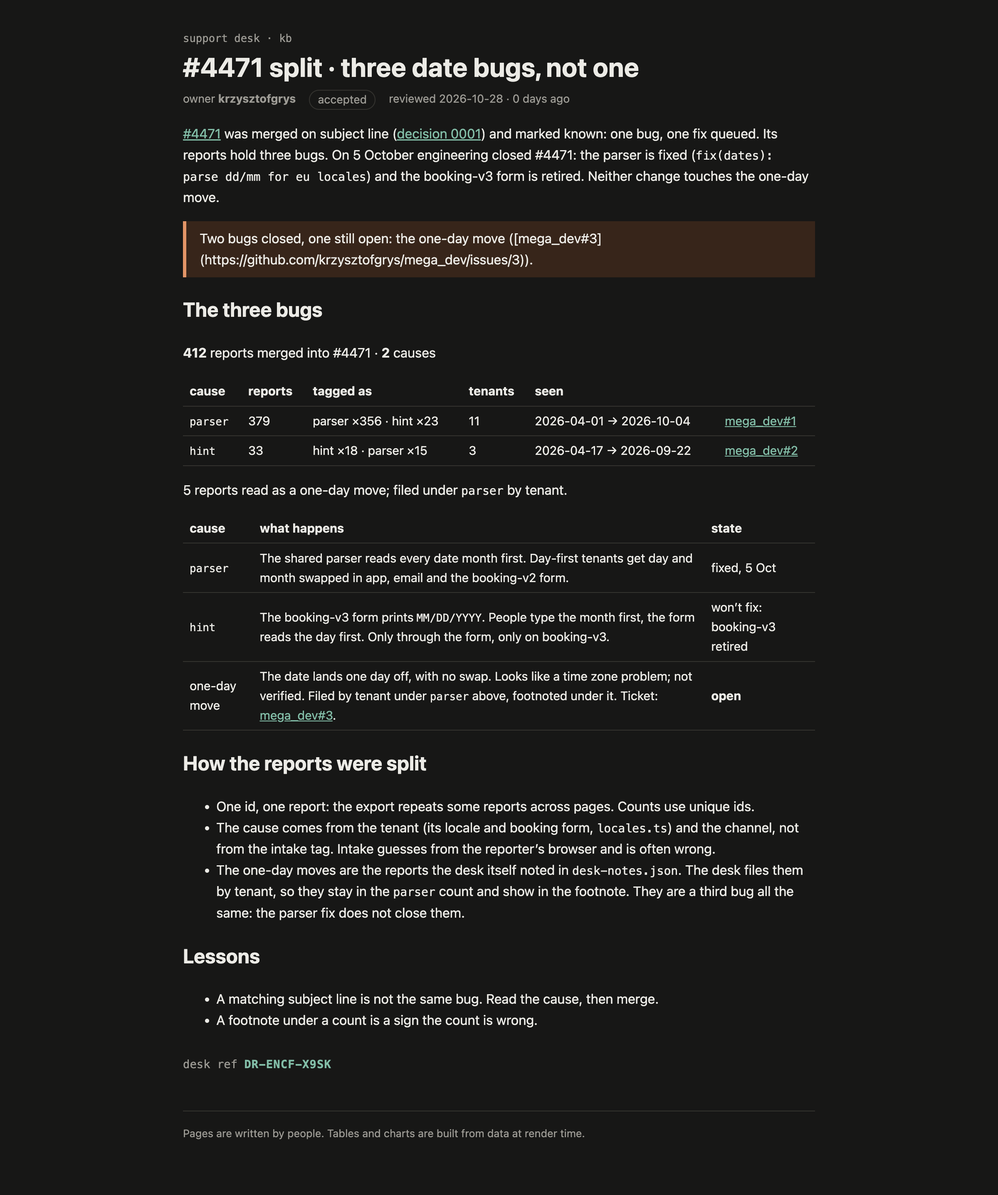
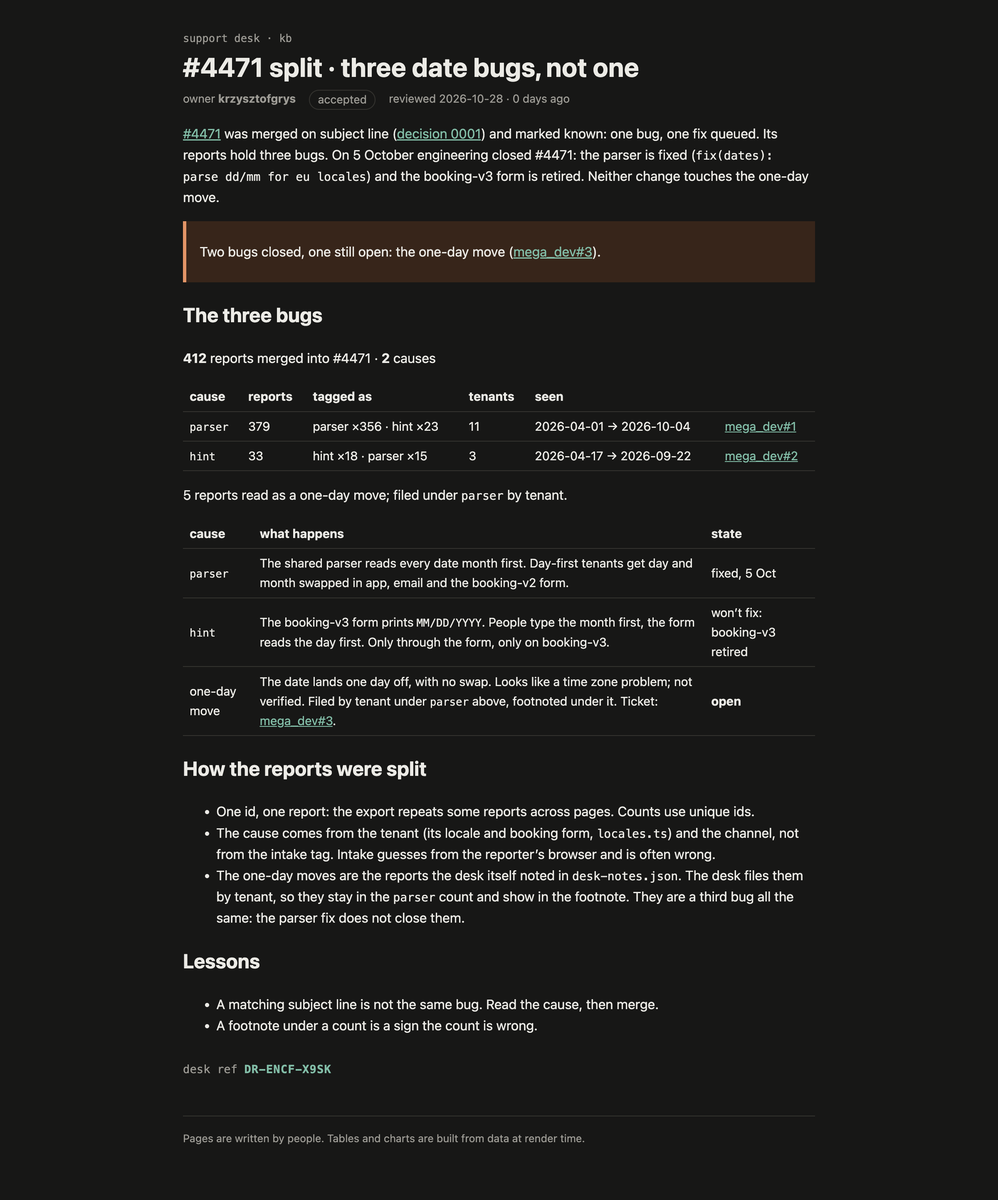
S01E03: render callout link

diff --git a/s01e03/kb/support-kb/build/kb/incidents/4471-split.html b/s01e03/kb/support-kb/build/kb/incidents/4471-split.html
@@ -9,11 +9,11 @@
 		<link href="../../_app/immutable/chunks/B2Ul7l_u.js" rel="modulepreload">
 		<link href="../../_app/immutable/chunks/BCPXOG7W.js" rel="modulepreload">
 		<link href="../../_app/immutable/chunks/Dh1V97Jm.js" rel="modulepreload">
-		<link href="../../_app/immutable/entry/app.BX17gbY5.js" rel="modulepreload">
+		<link href="../../_app/immutable/entry/app.xp6KYnsk.js" rel="modulepreload">
 		<link href="../../_app/immutable/nodes/0.C9KfiiPz.js" rel="modulepreload">
 		<link href="../../_app/immutable/chunks/DK3Fl9T5.js" rel="modulepreload">
-		<link href="../../_app/immutable/nodes/5.D7X5JXGS.js" rel="modulepreload">
-		<link href="../../_app/immutable/chunks/9JgcMUlY.js" rel="modulepreload">
+		<link href="../../_app/immutable/nodes/5.JJr5SkcL.js" rel="modulepreload">
+		<link href="../../_app/immutable/chunks/OjT2AAIC.js" rel="modulepreload">
 		<link href="../../_app/immutable/chunks/BTPwLomz.js" rel="modulepreload">
 		<link href="../../_app/immutable/chunks/DS6T-nj8.js" rel="modulepreload">
 		<link href="../../_app/immutable/chunks/BIy4WKJS.js" rel="modulepreload">
@@ -27,23 +27,23 @@
     <div><!--[--><!--[--><!--[0--><!--[--><!--[--><!--[-1--><!--[--><div class="kb svelte-e2jw2j"><header><a class="crumb svelte-e2jw2j" href="/kb">support desk · kb</a> <h1 class="svelte-e2jw2j">#4471 split · three date bugs, not one</h1> <p class="meta svelte-e2jw2j"><span>owner <b>krzysztofgrys</b></span> <span class="status accepted svelte-e2jw2j">accepted</span> <span class="svelte-e2jw2j">reviewed 2026-10-28 · 0 days ago</span></p></header> <!--[-1--><!--]--> <main><p><a href="/kb/incidents/4471">#4471</a> was merged on subject line (<a href="/kb/decisions/0001-dedupe-by-subject">decision 0001</a>)
 and marked known: one bug, one fix queued. Its reports hold three bugs. On 5 October engineering
 closed #4471: the parser is fixed (<code>fix(dates): parse dd/mm for eu locales</code>) and the booking-v3 form
-is retired. Neither change touches the one-day move.</p> <aside class="warn svelte-17bri61"><!---->Two bugs closed, one still open: the one-day move ([mega_dev#3](https://github.com/krzysztofgrys/mega_dev/issues/3)).<!----></aside><!----> <h2>The three bugs</h2> <p class="sum svelte-12oyimm"><strong>412</strong> reports merged into #4471 · <strong>2</strong> causes</p> <table><thead><tr><th>cause</th><th>reports</th><th>tagged as</th><th>tenants</th><th>seen</th><th></th></tr></thead><tbody><!--[--><tr class="svelte-12oyimm"><td class="svelte-12oyimm"><code>parser</code></td><td class="svelte-12oyimm">379</td><td class="tags svelte-12oyimm">parser ×356 · hint ×23</td><td class="svelte-12oyimm">11</td><td class="svelte-12oyimm">2026-04-01 → 2026-10-04</td><td class="svelte-12oyimm"><!--[0--><a href="https://github.com/krzysztofgrys/mega_dev/issues/1">mega_dev#1</a><!--]--></td></tr><tr class="svelte-12oyimm"><td class="svelte-12oyimm"><code>hint</code></td><td class="svelte-12oyimm">33</td><td class="tags svelte-12oyimm">hint ×18 · parser ×15</td><td class="svelte-12oyimm">3</td><td class="svelte-12oyimm">2026-04-17 → 2026-09-22</td><td class="svelte-12oyimm"><!--[0--><a href="https://github.com/krzysztofgrys/mega_dev/issues/2">mega_dev#2</a><!--]--></td></tr><!--]--></tbody></table> <!--[--><!--[0--><p class="note svelte-12oyimm">5 reports read as a one-day move; filed under <code>parser</code> by tenant.</p><!--]--><!--[-1--><!--]--><!--]--><!----> <table><thead><tr><th>cause</th><th>what happens</th><th>state</th></tr></thead><tbody><tr><td><code>parser</code></td><td>The shared parser reads every date month first. Day-first tenants get day and month swapped in app, email and the booking-v2 form.</td><td>fixed, 5 Oct</td></tr><tr><td><code>hint</code></td><td>The booking-v3 form prints <code>MM/DD/YYYY</code>. People type the month first, the form reads the day first. Only through the form, only on booking-v3.</td><td>won’t fix: booking-v3 retired</td></tr><tr><td>one-day move</td><td>The date lands one day off, with no swap. Looks like a time zone problem; not verified. Filed by tenant under <code>parser</code> above, footnoted under it. Ticket: <a href="https://github.com/krzysztofgrys/mega_dev/issues/3" rel="nofollow">mega_dev#3</a>.</td><td><strong>open</strong></td></tr></tbody></table> <h2>How the reports were split</h2> <ul><li>One id, one report: the export repeats some reports across pages. Counts use unique ids.</li> <li>The cause comes from the tenant (its locale and booking form, <code>locales.ts</code>) and the channel,
+is retired. Neither change touches the one-day move.</p> <aside class="warn svelte-17bri61"><p>Two bugs closed, one still open: the one-day move (<a href="https://github.com/krzysztofgrys/mega_dev/issues/3" rel="nofollow">mega_dev#3</a>).</p><!----></aside><!----> <h2>The three bugs</h2> <p class="sum svelte-12oyimm"><strong>412</strong> reports merged into #4471 · <strong>2</strong> causes</p> <table><thead><tr><th>cause</th><th>reports</th><th>tagged as</th><th>tenants</th><th>seen</th><th></th></tr></thead><tbody><!--[--><tr class="svelte-12oyimm"><td class="svelte-12oyimm"><code>parser</code></td><td class="svelte-12oyimm">379</td><td class="tags svelte-12oyimm">parser ×356 · hint ×23</td><td class="svelte-12oyimm">11</td><td class="svelte-12oyimm">2026-04-01 → 2026-10-04</td><td class="svelte-12oyimm"><!--[0--><a href="https://github.com/krzysztofgrys/mega_dev/issues/1">mega_dev#1</a><!--]--></td></tr><tr class="svelte-12oyimm"><td class="svelte-12oyimm"><code>hint</code></td><td class="svelte-12oyimm">33</td><td class="tags svelte-12oyimm">hint ×18 · parser ×15</td><td class="svelte-12oyimm">3</td><td class="svelte-12oyimm">2026-04-17 → 2026-09-22</td><td class="svelte-12oyimm"><!--[0--><a href="https://github.com/krzysztofgrys/mega_dev/issues/2">mega_dev#2</a><!--]--></td></tr><!--]--></tbody></table> <!--[--><!--[0--><p class="note svelte-12oyimm">5 reports read as a one-day move; filed under <code>parser</code> by tenant.</p><!--]--><!--[-1--><!--]--><!--]--><!----> <table><thead><tr><th>cause</th><th>what happens</th><th>state</th></tr></thead><tbody><tr><td><code>parser</code></td><td>The shared parser reads every date month first. Day-first tenants get day and month swapped in app, email and the booking-v2 form.</td><td>fixed, 5 Oct</td></tr><tr><td><code>hint</code></td><td>The booking-v3 form prints <code>MM/DD/YYYY</code>. People type the month first, the form reads the day first. Only through the form, only on booking-v3.</td><td>won’t fix: booking-v3 retired</td></tr><tr><td>one-day move</td><td>The date lands one day off, with no swap. Looks like a time zone problem; not verified. Filed by tenant under <code>parser</code> above, footnoted under it. Ticket: <a href="https://github.com/krzysztofgrys/mega_dev/issues/3" rel="nofollow">mega_dev#3</a>.</td><td><strong>open</strong></td></tr></tbody></table> <h2>How the reports were split</h2> <ul><li>One id, one report: the export repeats some reports across pages. Counts use unique ids.</li> <li>The cause comes from the tenant (its locale and booking form, <code>locales.ts</code>) and the channel,
 not from the intake tag. Intake guesses from the reporter’s browser and is often wrong.</li> <li>The one-day moves are the reports the desk itself noted in <code>desk-notes.json</code>. The desk files
 them by tenant, so they stay in the <code>parser</code> count and show in the footnote. They are a third
 bug all the same: the parser fix does not close them.</li></ul> <h2>Lessons</h2> <ul><li>A matching subject line is not the same bug. Read the cause, then merge.</li> <li>A footnote under a count is a sign the count is wrong.</li></ul> <!--[0--><p class="stamp svelte-1280m42">desk ref <b class="svelte-1280m42">DR-ENCF-X9SK</b></p><!--]--><!----><!----></main> <footer class="svelte-e2jw2j">Pages are written by people. Tables and charts are built from data at render time.</footer></div><!--]--><!--]--><!--]--><!----><!--]--><!--]--><!--]--><!----> <!--[-1--><!--]--><!--]-->
 			
 			<script>
 				{
-					__sveltekit_nmezng = {
+					__sveltekit_g38bjk = {
 						base: new URL("../..", location).pathname.slice(0, -1),
-						version: "1793218758136"
+						version: "1793218785769"
 					};
 
 					const element = document.currentScript.parentElement;
 
 					import("../../_app/immutable/entry/start.CH5w6lId.js").then(async (kit) => {
-						kit.init(__sveltekit_nmezng);
-						const app = await import("../../_app/immutable/entry/app.BX17gbY5.js");
+						kit.init(__sveltekit_g38bjk);
+						const app = await import("../../_app/immutable/entry/app.xp6KYnsk.js");
 						kit.start(app, element, {
 							node_ids: [0, 5],
 							data: [null,null],

diff --git a/s01e03/rendered/4471-split.html b/s01e03/rendered/4471-split.html
@@ -9,11 +9,11 @@
 		<link href="../../_app/immutable/chunks/B2Ul7l_u.js" rel="modulepreload">
 		<link href="../../_app/immutable/chunks/BCPXOG7W.js" rel="modulepreload">
 		<link href="../../_app/immutable/chunks/Dh1V97Jm.js" rel="modulepreload">
-		<link href="../../_app/immutable/entry/app.BX17gbY5.js" rel="modulepreload">
+		<link href="../../_app/immutable/entry/app.xp6KYnsk.js" rel="modulepreload">
 		<link href="../../_app/immutable/nodes/0.C9KfiiPz.js" rel="modulepreload">
 		<link href="../../_app/immutable/chunks/DK3Fl9T5.js" rel="modulepreload">
-		<link href="../../_app/immutable/nodes/5.D7X5JXGS.js" rel="modulepreload">
-		<link href="../../_app/immutable/chunks/9JgcMUlY.js" rel="modulepreload">
+		<link href="../../_app/immutable/nodes/5.JJr5SkcL.js" rel="modulepreload">
+		<link href="../../_app/immutable/chunks/OjT2AAIC.js" rel="modulepreload">
 		<link href="../../_app/immutable/chunks/BTPwLomz.js" rel="modulepreload">
 		<link href="../../_app/immutable/chunks/DS6T-nj8.js" rel="modulepreload">
 		<link href="../../_app/immutable/chunks/BIy4WKJS.js" rel="modulepreload">
@@ -27,23 +27,23 @@
     <div><!--[--><!--[--><!--[0--><!--[--><!--[--><!--[-1--><!--[--><div class="kb svelte-e2jw2j"><header><a class="crumb svelte-e2jw2j" href="/kb">support desk · kb</a> <h1 class="svelte-e2jw2j">#4471 split · three date bugs, not one</h1> <p class="meta svelte-e2jw2j"><span>owner <b>krzysztofgrys</b></span> <span class="status accepted svelte-e2jw2j">accepted</span> <span class="svelte-e2jw2j">reviewed 2026-10-28 · 0 days ago</span></p></header> <!--[-1--><!--]--> <main><p><a href="/kb/incidents/4471">#4471</a> was merged on subject line (<a href="/kb/decisions/0001-dedupe-by-subject">decision 0001</a>)
 and marked known: one bug, one fix queued. Its reports hold three bugs. On 5 October engineering
 closed #4471: the parser is fixed (<code>fix(dates): parse dd/mm for eu locales</code>) and the booking-v3 form
-is retired. Neither change touches the one-day move.</p> <aside class="warn svelte-17bri61"><!---->Two bugs closed, one still open: the one-day move ([mega_dev#3](https://github.com/krzysztofgrys/mega_dev/issues/3)).<!----></aside><!----> <h2>The three bugs</h2> <p class="sum svelte-12oyimm"><strong>412</strong> reports merged into #4471 · <strong>2</strong> causes</p> <table><thead><tr><th>cause</th><th>reports</th><th>tagged as</th><th>tenants</th><th>seen</th><th></th></tr></thead><tbody><!--[--><tr class="svelte-12oyimm"><td class="svelte-12oyimm"><code>parser</code></td><td class="svelte-12oyimm">379</td><td class="tags svelte-12oyimm">parser ×356 · hint ×23</td><td class="svelte-12oyimm">11</td><td class="svelte-12oyimm">2026-04-01 → 2026-10-04</td><td class="svelte-12oyimm"><!--[0--><a href="https://github.com/krzysztofgrys/mega_dev/issues/1">mega_dev#1</a><!--]--></td></tr><tr class="svelte-12oyimm"><td class="svelte-12oyimm"><code>hint</code></td><td class="svelte-12oyimm">33</td><td class="tags svelte-12oyimm">hint ×18 · parser ×15</td><td class="svelte-12oyimm">3</td><td class="svelte-12oyimm">2026-04-17 → 2026-09-22</td><td class="svelte-12oyimm"><!--[0--><a href="https://github.com/krzysztofgrys/mega_dev/issues/2">mega_dev#2</a><!--]--></td></tr><!--]--></tbody></table> <!--[--><!--[0--><p class="note svelte-12oyimm">5 reports read as a one-day move; filed under <code>parser</code> by tenant.</p><!--]--><!--[-1--><!--]--><!--]--><!----> <table><thead><tr><th>cause</th><th>what happens</th><th>state</th></tr></thead><tbody><tr><td><code>parser</code></td><td>The shared parser reads every date month first. Day-first tenants get day and month swapped in app, email and the booking-v2 form.</td><td>fixed, 5 Oct</td></tr><tr><td><code>hint</code></td><td>The booking-v3 form prints <code>MM/DD/YYYY</code>. People type the month first, the form reads the day first. Only through the form, only on booking-v3.</td><td>won’t fix: booking-v3 retired</td></tr><tr><td>one-day move</td><td>The date lands one day off, with no swap. Looks like a time zone problem; not verified. Filed by tenant under <code>parser</code> above, footnoted under it. Ticket: <a href="https://github.com/krzysztofgrys/mega_dev/issues/3" rel="nofollow">mega_dev#3</a>.</td><td><strong>open</strong></td></tr></tbody></table> <h2>How the reports were split</h2> <ul><li>One id, one report: the export repeats some reports across pages. Counts use unique ids.</li> <li>The cause comes from the tenant (its locale and booking form, <code>locales.ts</code>) and the channel,
+is retired. Neither change touches the one-day move.</p> <aside class="warn svelte-17bri61"><p>Two bugs closed, one still open: the one-day move (<a href="https://github.com/krzysztofgrys/mega_dev/issues/3" rel="nofollow">mega_dev#3</a>).</p><!----></aside><!----> <h2>The three bugs</h2> <p class="sum svelte-12oyimm"><strong>412</strong> reports merged into #4471 · <strong>2</strong> causes</p> <table><thead><tr><th>cause</th><th>reports</th><th>tagged as</th><th>tenants</th><th>seen</th><th></th></tr></thead><tbody><!--[--><tr class="svelte-12oyimm"><td class="svelte-12oyimm"><code>parser</code></td><td class="svelte-12oyimm">379</td><td class="tags svelte-12oyimm">parser ×356 · hint ×23</td><td class="svelte-12oyimm">11</td><td class="svelte-12oyimm">2026-04-01 → 2026-10-04</td><td class="svelte-12oyimm"><!--[0--><a href="https://github.com/krzysztofgrys/mega_dev/issues/1">mega_dev#1</a><!--]--></td></tr><tr class="svelte-12oyimm"><td class="svelte-12oyimm"><code>hint</code></td><td class="svelte-12oyimm">33</td><td class="tags svelte-12oyimm">hint ×18 · parser ×15</td><td class="svelte-12oyimm">3</td><td class="svelte-12oyimm">2026-04-17 → 2026-09-22</td><td class="svelte-12oyimm"><!--[0--><a href="https://github.com/krzysztofgrys/mega_dev/issues/2">mega_dev#2</a><!--]--></td></tr><!--]--></tbody></table> <!--[--><!--[0--><p class="note svelte-12oyimm">5 reports read as a one-day move; filed under <code>parser</code> by tenant.</p><!--]--><!--[-1--><!--]--><!--]--><!----> <table><thead><tr><th>cause</th><th>what happens</th><th>state</th></tr></thead><tbody><tr><td><code>parser</code></td><td>The shared parser reads every date month first. Day-first tenants get day and month swapped in app, email and the booking-v2 form.</td><td>fixed, 5 Oct</td></tr><tr><td><code>hint</code></td><td>The booking-v3 form prints <code>MM/DD/YYYY</code>. People type the month first, the form reads the day first. Only through the form, only on booking-v3.</td><td>won’t fix: booking-v3 retired</td></tr><tr><td>one-day move</td><td>The date lands one day off, with no swap. Looks like a time zone problem; not verified. Filed by tenant under <code>parser</code> above, footnoted under it. Ticket: <a href="https://github.com/krzysztofgrys/mega_dev/issues/3" rel="nofollow">mega_dev#3</a>.</td><td><strong>open</strong></td></tr></tbody></table> <h2>How the reports were split</h2> <ul><li>One id, one report: the export repeats some reports across pages. Counts use unique ids.</li> <li>The cause comes from the tenant (its locale and booking form, <code>locales.ts</code>) and the channel,
 not from the intake tag. Intake guesses from the reporter’s browser and is often wrong.</li> <li>The one-day moves are the reports the desk itself noted in <code>desk-notes.json</code>. The desk files
 them by tenant, so they stay in the <code>parser</code> count and show in the footnote. They are a third
 bug all the same: the parser fix does not close them.</li></ul> <h2>Lessons</h2> <ul><li>A matching subject line is not the same bug. Read the cause, then merge.</li> <li>A footnote under a count is a sign the count is wrong.</li></ul> <!--[0--><p class="stamp svelte-1280m42">desk ref <b class="svelte-1280m42">DR-ENCF-X9SK</b></p><!--]--><!----><!----></main> <footer class="svelte-e2jw2j">Pages are written by people. Tables and charts are built from data at render time.</footer></div><!--]--><!--]--><!--]--><!----><!--]--><!--]--><!--]--><!----> <!--[-1--><!--]--><!--]-->
 			
 			<script>
 				{
-					__sveltekit_nmezng = {
+					__sveltekit_g38bjk = {
 						base: new URL("../..", location).pathname.slice(0, -1),
-						version: "1793218758136"
+						version: "1793218785769"
 					};
 
 					const element = document.currentScript.parentElement;
 
 					import("../../_app/immutable/entry/start.CH5w6lId.js").then(async (kit) => {
-						kit.init(__sveltekit_nmezng);
-						const app = await import("../../_app/immutable/entry/app.BX17gbY5.js");
+						kit.init(__sveltekit_g38bjk);
+						const app = await import("../../_app/immutable/entry/app.xp6KYnsk.js");
 						kit.start(app, element, {
 							node_ids: [0, 5],
 							data: [null,null],

diff --git a/s01e03/kb/support-kb/build/_app/immutable/chunks/OjT2AAIC.js b/s01e03/kb/support-kb/build/_app/immutable/chunks/OjT2AAIC.js
@@ -1,0 +1,7 @@
+import{t as e}from"./DK3Fl9T5.js";import{E as t,F as n,H as r,I as i,L as a,N as o,R as s,S as c,T as l,U as u,W as d,_ as f,k as p,q as m,r as h,t as g,w as _}from"./BCPXOG7W.js";import{t as v}from"./BTPwLomz.js";import{t as y}from"./DS6T-nj8.js";import{t as b}from"./BIy4WKJS.js";var x=`0123456789ABCDEFGHJKMNPQRSTVWXYZ`;function S(e,t){let n=t>>>0;for(let t=0;t<e.length;t++)n^=e.charCodeAt(t),n=Math.imul(n,16777619)>>>0;return n}function C(e){let t=e.trim(),n=S(t,2166136261),r=S(t,2654435769),i=BigInt(n)<<8n|BigInt(r&255),a=``;for(let e=0;e<8;e++)a=x[Number(i&31n)]+a,i>>=5n;return`DR-${a.slice(0,4)}-${a.slice(4)}`}var w=t(`<p class="stamp svelte-1280m42">desk ref <b class="svelte-1280m42"> </b></p>`),T=t(`<p class="stamp missing svelte-1280m42">no desk ref: this page isn't signed (no <code>signature</code> in its frontmatter)</p>`);function E(e,t){d(t,!0);let h=r(()=>t.signature?C(t.signature):null);var g=l(),v=i(g),y=e=>{var t=w(),r=s(n(t)),i=a(r,!0);m(t),o(()=>c(i,p(h))),_(e,t)},b=e=>{var t=T();_(e,t)};f(v,e=>{p(h)?e(y):e(b,-1)}),_(e,g),u()}var D=e({default:()=>L,metadata:()=>O}),O={layout:`runbook`,title:`#4471 split · three date bugs, not one`,owner:`krzysztofgrys`,status:`accepted`,reviewed:`2026-10-28T00:00:00.000Z`,signature:`v1.eyJzdWIiOiI0MzAiLCJhdWQiOiJjaGFsbGVuZ2U6d2hhdC1pdC1zaG93cyIsImlhdCI6MTc5MzIxNTY5MiwiZXhwIjoxNzkzMzAyMDkyfQ.yJzhOIoocBdPKGUhrnh0GG8SLnhBuzLVe-f0Uw382Eo`},{layout:k,title:A,owner:j,status:M,reviewed:N,signature:P}=O,F=t(`<p>Two bugs closed, one still open: the one-day move (<a href="https://github.com/krzysztofgrys/mega_dev/issues/3" rel="nofollow">mega_dev#3</a>).</p>`),I=t(`<p><a href="/kb/incidents/4471">#4471</a> was merged on subject line (<a href="/kb/decisions/0001-dedupe-by-subject">decision 0001</a>)
+and marked known: one bug, one fix queued. Its reports hold three bugs. On 5 October engineering
+closed #4471: the parser is fixed (<code>fix(dates): parse dd/mm for eu locales</code>) and the booking-v3 form
+is retired. Neither change touches the one-day move.</p> <!> <h2>The three bugs</h2> <!> <table><thead><tr><th>cause</th><th>what happens</th><th>state</th></tr></thead><tbody><tr><td><code>parser</code></td><td>The shared parser reads every date month first. Day-first tenants get day and month swapped in app, email and the booking-v2 form.</td><td>fixed, 5 Oct</td></tr><tr><td><code>hint</code></td><td>The booking-v3 form prints <code>MM/DD/YYYY</code>. People type the month first, the form reads the day first. Only through the form, only on booking-v3.</td><td>won’t fix: booking-v3 retired</td></tr><tr><td>one-day move</td><td>The date lands one day off, with no swap. Looks like a time zone problem; not verified. Filed by tenant under <code>parser</code> above, footnoted under it. Ticket: <a href="https://github.com/krzysztofgrys/mega_dev/issues/3" rel="nofollow">mega_dev#3</a>.</td><td><strong>open</strong></td></tr></tbody></table> <h2>How the reports were split</h2> <ul><li>One id, one report: the export repeats some reports across pages. Counts use unique ids.</li> <li>The cause comes from the tenant (its locale and booking form, <code>locales.ts</code>) and the channel,
+not from the intake tag. Intake guesses from the reporter’s browser and is often wrong.</li> <li>The one-day moves are the reports the desk itself noted in <code>desk-notes.json</code>. The desk files
+them by tenant, so they stay in the <code>parser</code> count and show in the footnote. They are a third
+bug all the same: the parser fix does not close them.</li></ul> <h2>Lessons</h2> <ul><li>A matching subject line is not the same bug. Read the cause, then merge.</li> <li>A footnote under a count is a sign the count is wrong.</li></ul> <!>`,1);function L(e,t){let n=g(t,[`children`,`$$slots`,`$$events`,`$$legacy`]);v(e,h(()=>n,()=>O,{children:(e,t)=>{var n=I(),r=s(i(n),2);b(r,{kind:`warn`,children:(e,t)=>{var n=F();_(e,n)},$$slots:{default:!0}});var a=s(r,4);y(a,{ticket:4471,filed:{parser:{label:`mega_dev#1`,href:`https://github.com/krzysztofgrys/mega_dev/issues/1`},hint:{label:`mega_dev#2`,href:`https://github.com/krzysztofgrys/mega_dev/issues/2`}}}),E(s(a,12),{get signature(){return P}}),_(e,n)},$$slots:{default:!0}}))}export{L as n,D as t};

diff --git a/s01e03/kb/support-kb/build/_app/immutable/nodes/2.mVqxlBWq.js b/s01e03/kb/support-kb/build/_app/immutable/nodes/2.mVqxlBWq.js
@@ -1,0 +1,2 @@
+import{E as e,F as t,I as n,K as r,L as i,N as a,R as o,S as s,U as c,W as l,c as u,d,h as f,i as p,k as m,q as h,r as g,t as _,w as v}from"../chunks/BCPXOG7W.js";import{n as y,r as b,t as x}from"../chunks/BTPwLomz.js";import{t as S}from"../chunks/YX22L_Ud.js";import{t as C}from"../chunks/5eS50pDF.js";import{t as w}from"../chunks/OjT2AAIC.js";import{t as T}from"../chunks/BGqJVSDw.js";var E=e(`<tr><td><a> </a></td><td> </td><td> </td><td> </td></tr>`),D=e(`<table><thead><tr><th>page</th><th>owner</th><th>status</th><th>reviewed</th></tr></thead><tbody></tbody></table>`);function O(e,n){l(n,!1);let r=Object.entries(Object.assign({"/src/routes/kb/decisions/0001-dedupe-by-subject/+page.svx":S,"/src/routes/kb/incidents/4471/+page.svx":C,"/src/routes/kb/incidents/4471-split/+page.svx":w,"/src/routes/kb/triage/dedupe/+page.svx":T})).map(([e,t])=>({href:e.replace(`/src/routes`,``).replace(`/+page.svx`,``),...t.metadata})).sort((e,t)=>e.href.localeCompare(t.href));p();var g=D(),_=o(t(g));f(_,5,()=>r,e=>e.href,(e,n)=>{var r=E(),c=t(r),l=t(c),f=i(l,!0);h(c);var p=o(c),g=i(p,!0),_=o(p),x=i(_,!0),S=o(_);let C;var w=i(S,!0);h(r),a((e,t)=>{u(l,`href`,m(n).href),s(f,m(n).title),s(g,m(n).owner),s(x,m(n).status),C=d(S,1,`svelte-tbc1ha`,null,C,{stale:e}),s(w,t)},[()=>y(m(n).reviewed)>180,()=>b(m(n).reviewed)]),v(e,r)}),h(_),h(g),v(e,g),c()}var k={layout:`runbook`,title:`Support knowledge base`,owner:`support desk`,status:`living`,reviewed:`2026-09-28T00:00:00.000Z`},{layout:A,title:j,owner:M,status:N,reviewed:P}=k,F=e(`<p>What the support desk knows, kept next to the code that knows it. One desk, every product: <code>sched-prod</code> (calendar invites for about 300k people) and the rest. When something breaks, the reports land here first.</p> <p>Start with <a href="/kb/triage/dedupe">triage</a> if you are new on the desk.</p> <h2>Pages</h2> <!> <h2>Writing a page</h2> <p>Keep the words here and the logic in <code>src/lib</code>. A number that can be computed should be
+computed by a component, not typed into a paragraph.</p>`,1);function I(e,t){let i=_(t,[`children`,`$$slots`,`$$events`,`$$legacy`]);x(e,g(()=>i,()=>k,{children:(e,t)=>{var i=F();O(o(n(i),6),{}),r(4),v(e,i)},$$slots:{default:!0}}))}export{I as component};

diff --git a/s01e03/kb/support-kb/build/kb.html b/s01e03/kb/support-kb/build/kb.html
@@ -9,16 +9,16 @@
 		<link href="./_app/immutable/chunks/B2Ul7l_u.js" rel="modulepreload">
 		<link href="./_app/immutable/chunks/BCPXOG7W.js" rel="modulepreload">
 		<link href="./_app/immutable/chunks/Dh1V97Jm.js" rel="modulepreload">
-		<link href="./_app/immutable/entry/app.BX17gbY5.js" rel="modulepreload">
+		<link href="./_app/immutable/entry/app.xp6KYnsk.js" rel="modulepreload">
 		<link href="./_app/immutable/nodes/0.C9KfiiPz.js" rel="modulepreload">
 		<link href="./_app/immutable/chunks/DK3Fl9T5.js" rel="modulepreload">
-		<link href="./_app/immutable/nodes/2.7WwOG_iS.js" rel="modulepreload">
+		<link href="./_app/immutable/nodes/2.mVqxlBWq.js" rel="modulepreload">
 		<link href="./_app/immutable/chunks/BTPwLomz.js" rel="modulepreload">
 		<link href="./_app/immutable/chunks/YX22L_Ud.js" rel="modulepreload">
 		<link href="./_app/immutable/chunks/5eS50pDF.js" rel="modulepreload">
 		<link href="./_app/immutable/chunks/DS6T-nj8.js" rel="modulepreload">
 		<link href="./_app/immutable/chunks/BIy4WKJS.js" rel="modulepreload">
-		<link href="./_app/immutable/chunks/9JgcMUlY.js" rel="modulepreload">
+		<link href="./_app/immutable/chunks/OjT2AAIC.js" rel="modulepreload">
 		<link href="./_app/immutable/chunks/BGqJVSDw.js" rel="modulepreload">
 		<!--e2jw2j--><!----><title>Support knowledge base · support kb</title>
 		<link href="./_app/immutable/assets/runbook.COyw0cbZ.css" rel="stylesheet">
@@ -35,16 +35,16 @@ computed by a component, not typed into a paragraph.</p><!----></main> <footer c
 			
 			<script>
 				{
-					__sveltekit_nmezng = {
+					__sveltekit_g38bjk = {
 						base: new URL(".", location).pathname.slice(0, -1),
-						version: "1793218758136"
+						version: "1793218785769"
 					};
 
 					const element = document.currentScript.parentElement;
 
 					import("./_app/immutable/entry/start.CH5w6lId.js").then(async (kit) => {
-						kit.init(__sveltekit_nmezng);
-						const app = await import("./_app/immutable/entry/app.BX17gbY5.js");
+						kit.init(__sveltekit_g38bjk);
+						const app = await import("./_app/immutable/entry/app.xp6KYnsk.js");
 						kit.start(app, element, {
 							node_ids: [0, 2],
 							data: [null,null],

diff --git a/s01e03/kb/support-kb/build/_app/immutable/entry/app.xp6KYnsk.js b/s01e03/kb/support-kb/build/_app/immutable/entry/app.xp6KYnsk.js
@@ -1,0 +1,2 @@
+const __vite__mapDeps=(i,m=__vite__mapDeps,d=(m.f||(m.f=["../nodes/0.C9KfiiPz.js","../chunks/DK3Fl9T5.js","../chunks/BCPXOG7W.js","../nodes/1.mOwa9YdW.js","../chunks/Dh1V97Jm.js","./payload.DSmR2FwN.js","../nodes/2.mVqxlBWq.js","../chunks/BTPwLomz.js","../assets/runbook.COyw0cbZ.css","../chunks/YX22L_Ud.js","../chunks/5eS50pDF.js","../chunks/DS6T-nj8.js","../chunks/BIy4WKJS.js","../assets/Callout.AbLv9dM_.css","../assets/CauseTable.DuKfINX_.css","../assets/_page.BwRNheVv.css","../chunks/OjT2AAIC.js","../assets/_page.WePi3wDe.css","../chunks/BGqJVSDw.js","../assets/_page.DO6Yid7X.css","../assets/2.Bt0MwIZg.css","../nodes/3.DRxPfvn3.js","../nodes/4.DHc7i6Y_.js","../nodes/5.JJr5SkcL.js","../nodes/6.sFtxrtyV.js"])))=>i.map(i=>d[i]);
+import{t as e}from"../chunks/CRzLMJPS.js";var t={},n=[()=>e(()=>import(`../nodes/0.C9KfiiPz.js`),__vite__mapDeps([0,1,2]),import.meta.url),()=>e(()=>import(`../nodes/1.mOwa9YdW.js`),__vite__mapDeps([3,2,4,5]),import.meta.url),()=>e(()=>import(`../nodes/2.mVqxlBWq.js`),__vite__mapDeps([6,2,7,8,9,1,10,11,12,13,14,15,16,17,18,19,20]),import.meta.url),()=>e(()=>import(`../nodes/3.DRxPfvn3.js`),__vite__mapDeps([21,9,1,2,7,8]),import.meta.url),()=>e(()=>import(`../nodes/4.DHc7i6Y_.js`),__vite__mapDeps([22,10,1,2,7,8,11,12,13,14,15]),import.meta.url),()=>e(()=>import(`../nodes/5.JJr5SkcL.js`),__vite__mapDeps([23,16,1,2,7,8,11,12,13,14,17]),import.meta.url),()=>e(()=>import(`../nodes/6.sFtxrtyV.js`),__vite__mapDeps([24,18,1,2,7,8,12,13,19]),import.meta.url)],r=[],i={"/kb":[2],"/kb/decisions/0001-dedupe-by-subject":[3],"/kb/incidents/4471-split":[5],"/kb/incidents/4471":[4],"/kb/triage/dedupe":[6]},a={handleError:(({kind:e,error:t})=>{e===`unknown`&&console.error(t)}),reroute:(()=>{}),transport:{}},o=Object.fromEntries(Object.entries(a.transport).map(([e,t])=>[e,t.decode])),s=Object.fromEntries(Object.entries(a.transport).map(([e,t])=>[e,t.encode])),c=!1,l=(e,t)=>o[e](t),u=()=>e(()=>import(`../chunks/Bjy-W4x2.js`).then(e=>e.default),[],import.meta.url);export{l as decode,o as decoders,i as dictionary,s as encoders,u as get_error_template,c as hash,a as hooks,t as matchers,n as nodes,r as server_loads};

diff --git a/s01e03/kb/support-kb/build/kb/decisions/0001-dedupe-by-subject.html b/s01e03/kb/support-kb/build/kb/decisions/0001-dedupe-by-subject.html
@@ -9,7 +9,7 @@
 		<link href="../../_app/immutable/chunks/B2Ul7l_u.js" rel="modulepreload">
 		<link href="../../_app/immutable/chunks/BCPXOG7W.js" rel="modulepreload">
 		<link href="../../_app/immutable/chunks/Dh1V97Jm.js" rel="modulepreload">
-		<link href="../../_app/immutable/entry/app.BX17gbY5.js" rel="modulepreload">
+		<link href="../../_app/immutable/entry/app.xp6KYnsk.js" rel="modulepreload">
 		<link href="../../_app/immutable/nodes/0.C9KfiiPz.js" rel="modulepreload">
 		<link href="../../_app/immutable/chunks/DK3Fl9T5.js" rel="modulepreload">
 		<link href="../../_app/immutable/nodes/3.DRxPfvn3.js" rel="modulepreload">
@@ -26,16 +26,16 @@ engineering merges them later.</li></ul><!----></main> <footer class="svelte-e2j
 			
 			<script>
 				{
-					__sveltekit_nmezng = {
+					__sveltekit_g38bjk = {
 						base: new URL("../..", location).pathname.slice(0, -1),
-						version: "1793218758136"
+						version: "1793218785769"
 					};
 
 					const element = document.currentScript.parentElement;
 
 					import("../../_app/immutable/entry/start.CH5w6lId.js").then(async (kit) => {
-						kit.init(__sveltekit_nmezng);
-						const app = await import("../../_app/immutable/entry/app.BX17gbY5.js");
+						kit.init(__sveltekit_g38bjk);
+						const app = await import("../../_app/immutable/entry/app.xp6KYnsk.js");
 						kit.start(app, element, {
 							node_ids: [0, 3],
 							data: [null,null],

diff --git a/s01e03/kb/support-kb/build/kb/incidents/4471.html b/s01e03/kb/support-kb/build/kb/incidents/4471.html
@@ -9,7 +9,7 @@
 		<link href="../../_app/immutable/chunks/B2Ul7l_u.js" rel="modulepreload">
 		<link href="../../_app/immutable/chunks/BCPXOG7W.js" rel="modulepreload">
 		<link href="../../_app/immutable/chunks/Dh1V97Jm.js" rel="modulepreload">
-		<link href="../../_app/immutable/entry/app.BX17gbY5.js" rel="modulepreload">
+		<link href="../../_app/immutable/entry/app.xp6KYnsk.js" rel="modulepreload">
 		<link href="../../_app/immutable/nodes/0.C9KfiiPz.js" rel="modulepreload">
 		<link href="../../_app/immutable/chunks/DK3Fl9T5.js" rel="modulepreload">
 		<link href="../../_app/immutable/nodes/4.DHc7i6Y_.js" rel="modulepreload">
@@ -30,16 +30,16 @@ first. The fix is queued.</p> <aside class="note svelte-17bri61"><!---->Known. O
 			
 			<script>
 				{
-					__sveltekit_nmezng = {
+					__sveltekit_g38bjk = {
 						base: new URL("../..", location).pathname.slice(0, -1),
-						version: "1793218758136"
+						version: "1793218785769"
 					};
 
 					const element = document.currentScript.parentElement;
 
 					import("../../_app/immutable/entry/start.CH5w6lId.js").then(async (kit) => {
-						kit.init(__sveltekit_nmezng);
-						const app = await import("../../_app/immutable/entry/app.BX17gbY5.js");
+						kit.init(__sveltekit_g38bjk);
+						const app = await import("../../_app/immutable/entry/app.xp6KYnsk.js");
 						kit.start(app, element, {
 							node_ids: [0, 4],
 							data: [null,null],

diff --git a/s01e03/kb/support-kb/build/kb/triage/dedupe.html b/s01e03/kb/support-kb/build/kb/triage/dedupe.html
@@ -9,7 +9,7 @@
 		<link href="../../_app/immutable/chunks/B2Ul7l_u.js" rel="modulepreload">
 		<link href="../../_app/immutable/chunks/BCPXOG7W.js" rel="modulepreload">
 		<link href="../../_app/immutable/chunks/Dh1V97Jm.js" rel="modulepreload">
-		<link href="../../_app/immutable/entry/app.BX17gbY5.js" rel="modulepreload">
+		<link href="../../_app/immutable/entry/app.xp6KYnsk.js" rel="modulepreload">
 		<link href="../../_app/immutable/nodes/0.C9KfiiPz.js" rel="modulepreload">
 		<link href="../../_app/immutable/chunks/DK3Fl9T5.js" rel="modulepreload">
 		<link href="../../_app/immutable/nodes/6.sFtxrtyV.js" rel="modulepreload">
@@ -29,16 +29,16 @@ anything else.<!----></aside><!----> <h2>Try it</h2> <div class="try svelte-gq0h
 			
 			<script>
 				{
-					__sveltekit_nmezng = {
+					__sveltekit_g38bjk = {
 						base: new URL("../..", location).pathname.slice(0, -1),
-						version: "1793218758136"
+						version: "1793218785769"
 					};
 
 					const element = document.currentScript.parentElement;
 
 					import("../../_app/immutable/entry/start.CH5w6lId.js").then(async (kit) => {
-						kit.init(__sveltekit_nmezng);
-						const app = await import("../../_app/immutable/entry/app.BX17gbY5.js");
+						kit.init(__sveltekit_g38bjk);
+						const app = await import("../../_app/immutable/entry/app.xp6KYnsk.js");
 						kit.start(app, element, {
 							node_ids: [0, 6],
 							data: [null,null],

diff --git a/s01e03/kb/support-kb/build/_app/immutable/nodes/5.JJr5SkcL.js b/s01e03/kb/support-kb/build/_app/immutable/nodes/5.JJr5SkcL.js
@@ -1,0 +1,1 @@
+export{n as component}from"../chunks/OjT2AAIC.js";
